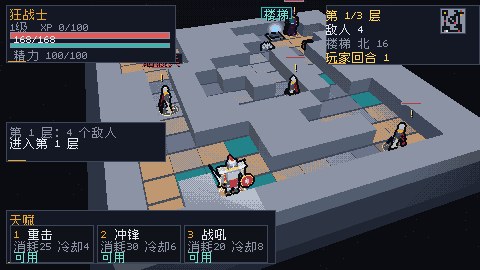
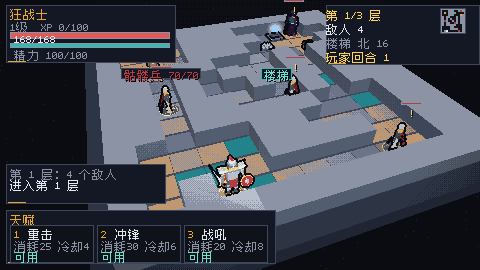
fix: input throttle, aim wait, save confirm and HUD feedback

diff --git a/docs/QA_TOME3.md b/docs/QA_TOME3.md
@@ -350,3 +350,20 @@ zig build run -- --headless --hero 2 --seed 12345 --auto --frames 5000 --out doc
 - docs/screenshots/qa3_*.png：本轮证据截图。
 
 未修改任何 src/game/* 游戏逻辑。
+## 12. 修复对账（本轮之后合并）
+
+QA3 开 PR 后，主分支继续合并了以下修复；本节把上面 P1/P2 的状态更新掉：
+
+| 发现 | 状态 | 修复 |
+| --- | --- | --- |
+| 按住方向键每个 repeat 消耗一回合 | 已修 | TomeGame.step_cooldown，约 0.3 秒一步；新增回归测试 |
+| 瞄准中 5/. 被当成确认 | 已修 | 5/. 取消瞄准并等待；空格/同键才是确认 |
+| 同键确认 vs 取消口径 | 定为确认 | README/帮助/QA 验收统一为“同键确认，Esc 取消” |
+| 菜单 SEED 是预览种子 | 已修 | selectClass 不再改写 seed，菜单 SEED 即本局 seed |
+| F9 无确认覆盖 | 已修 | F9 两次确认；菜单/帮助都写 F9x2 |
+| loot_rng 未保存 | 已修 | gear sidecar 保存 xoshiro 状态，F9 精确续接掉落 |
+| gear `{}` 被当空背包 | 已修 | format/version 无默认值，`{}` 返回 NotGearFormat，坏档不覆盖 |
+| 目标无 HP/距离/速度提示 | 部分 | 目标名字牌加 HP 数字、速度 x2/慢；AOE 标签带预计伤害；平台/日志下移 |
+| 日志压战场/死因被盖 | 已修 | 日志移到左下；死亡/胜利结算显示最后一条日志作为死因 |
+
+最新测试：`zig build test` 129/129，`test-qa` 76/76，`test-qa3` 129/129；QA3 测试已改为新行为的回归断言。

diff --git a/docs/QA_TOME2.md b/docs/QA_TOME2.md
@@ -160,6 +160,6 @@ zig build test-qa --summary all
 | 超时 | 0 | 0 | 0 | 0 |
 
 - 固定 seed 12345 三职业均通关：狂战士第 100 回合剩 66 HP、元素法师第 75 回合剩 61 HP、时空法师第 84 回合剩 69 HP。
-- zig build test：128/128；zig build test-qa：76/76；0 不变量违规；stairs_wins=0，193 胜全部来自 Boss 击杀。
+- zig build test：129/129；zig build test-qa：76/76；0 不变量违规；stairs_wins=0，193 胜全部来自 Boss 击杀。
 - 速度带已启用：精英幽魂 150（每 2 回合多一次行动），石魔像 70（每 2 回合跳过行动）。
 - 旧第 6.1/6.2 节保留为“AOE 不可躲”时期的历史基线；本节取代其通关率结论。README 已同步。

diff --git a/README.md b/README.md
@@ -142,7 +142,7 @@ docs/           TOME_V1 / SAVE / ART_PASS / UX_REVIEW_TOME / screenshots
 
 ## 验证
 
-- zig build / zig build test：13/13 steps、128/128 tests。
+- zig build / zig build test：13/13 steps、129/129 tests。
 - headless：可生成职业菜单/开始/战斗/角色/背包/胜利截图；`--start-menu` 输出 `docs/screenshots/tome_select.png`。
 - 职业菜单显示的 SEED 就是本局真实 seed；选择职业只按同一 seed 重开，R 重开保持职业和 seed。
 - 自动跑局（seed 12345）：三职业均可通关；狂战士约第 100 回合剩 66 HP，元素法师第 75 回合、时空法师第 84 回合。
